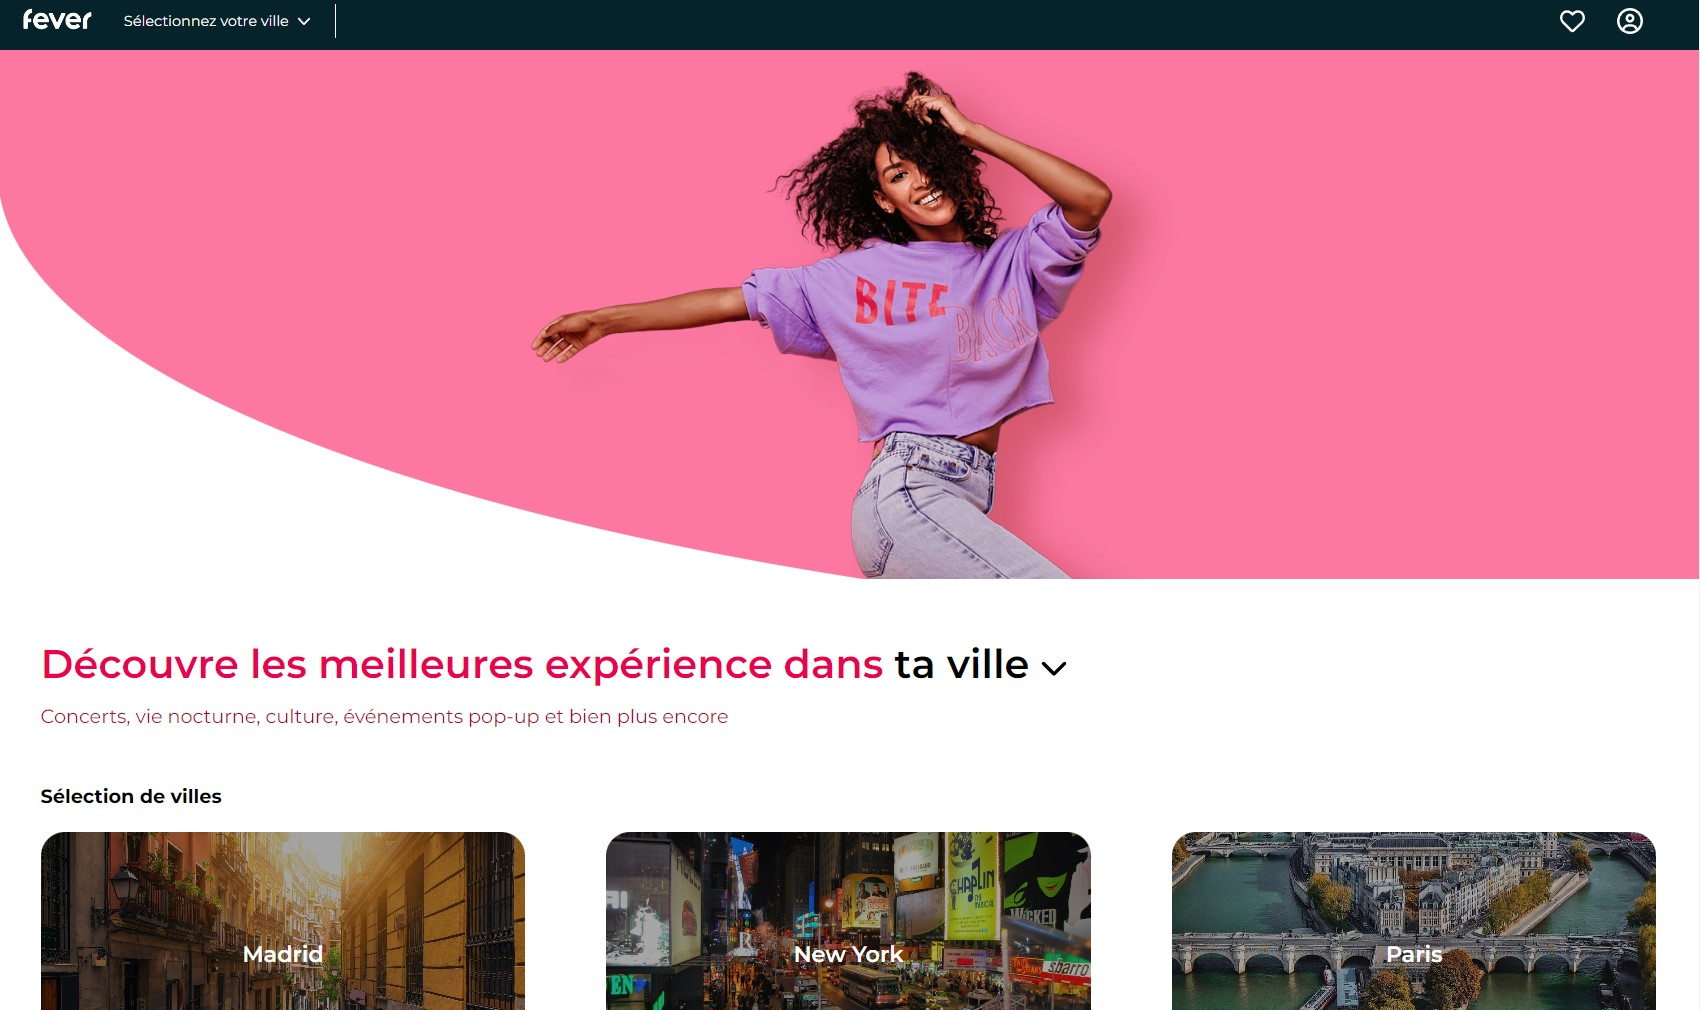
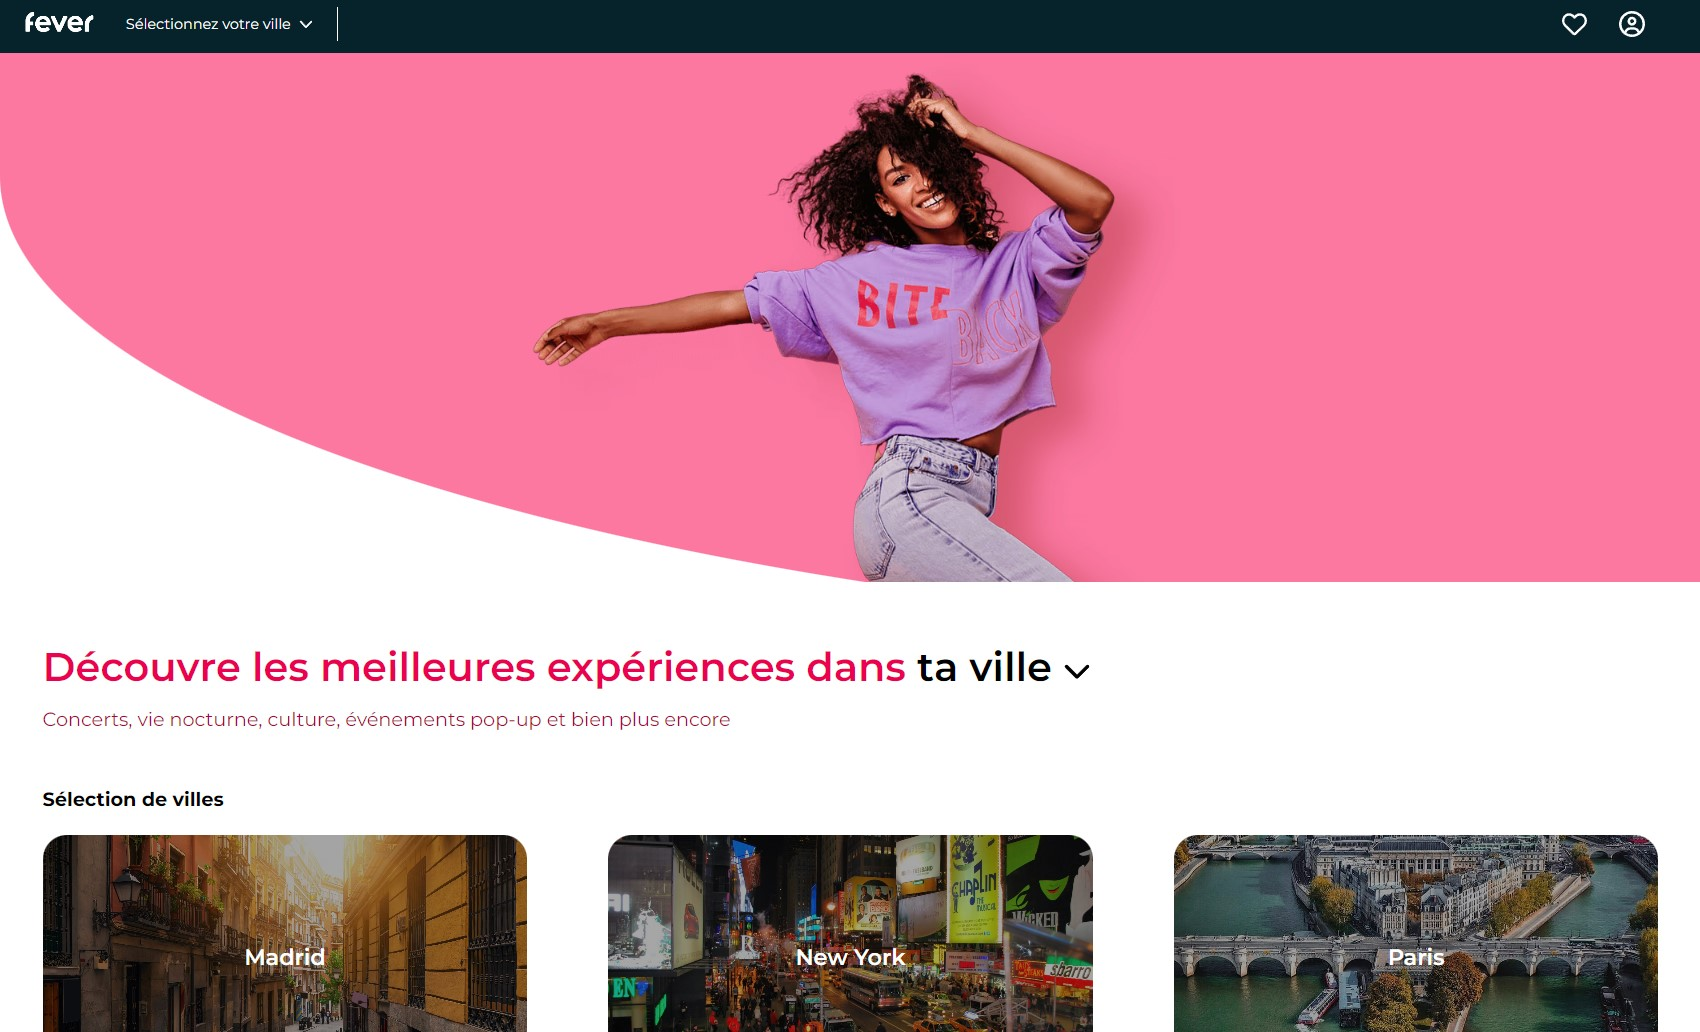
Faute de frappe HomePage

diff --git a/src/Components/Summary/index.jsx b/src/Components/Summary/index.jsx
@@ -2,7 +2,7 @@ import { Link } from 'react-router-dom'
 
 
 import { FontAwesomeIcon } from '@fortawesome/react-fontawesome';
-import { faArrowRight, faCircle, faSquare, faPlay, faShield} from '@fortawesome/free-solid-svg-icons';
+import { faArrowRight, faCircle, faDiamond, faSquare, faPlay, faShield} from '@fortawesome/free-solid-svg-icons';
 
 import '../../Scss/style.scss';
 
@@ -10,7 +10,7 @@ import '../../Scss/style.scss';
 
 function Summary({id, maincolor, title, subtitle, category, summary, githubLink, imageDesktop, imageMobile}){
 
-    let iconFontAwesome = null;
+    let iconFontAwesome = faDiamond;
 
     if (category === 'frontbackend'){
         iconFontAwesome = faPlay
